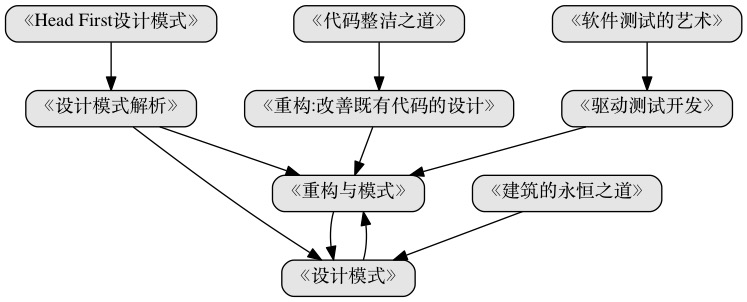
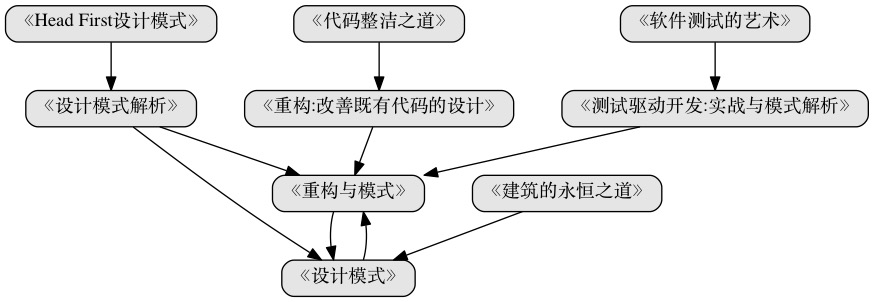
update tdd book

diff --git a/README.md b/README.md
@@ -9,6 +9,12 @@
 
 ##持续交付
 
+- 《敏捷软件开发：原则、模式与实践》
+- 《测试驱动开发:实战与模式解析》
+- 《实现领域驱动设计》
+- 《领域驱动设计：软件核心复杂性应对之道》
+- 《敏捷武士：看敏捷高手交付卓越软件》
+
 > 传统软件交付(一次交付)与Web，乃至现在的软件交付很大的一个不同点在于——持续交付。
 
 当我们昨天、今天打开淘宝的时候，可能已经是不同两个版本的软件，而我们并没有察觉出来。而这个软件可能是前天、上星期写好的，如果是上上个月写好的，那么就说明阿里的软件发布模式是有问题的。
@@ -59,9 +65,11 @@
 - 《实用负载均衡技术:网站性能优化攻略》
 - 《网站性能监测与优化》
 - 《构建高性能Web站点》
+- 《SEO艺术》
 
 ##Others
-
+- 《架构之美》
+- 《Vim实用技巧》
 - 《互联网思维的企业》
 - 《Rework》
 - 《胡林的儿女》
